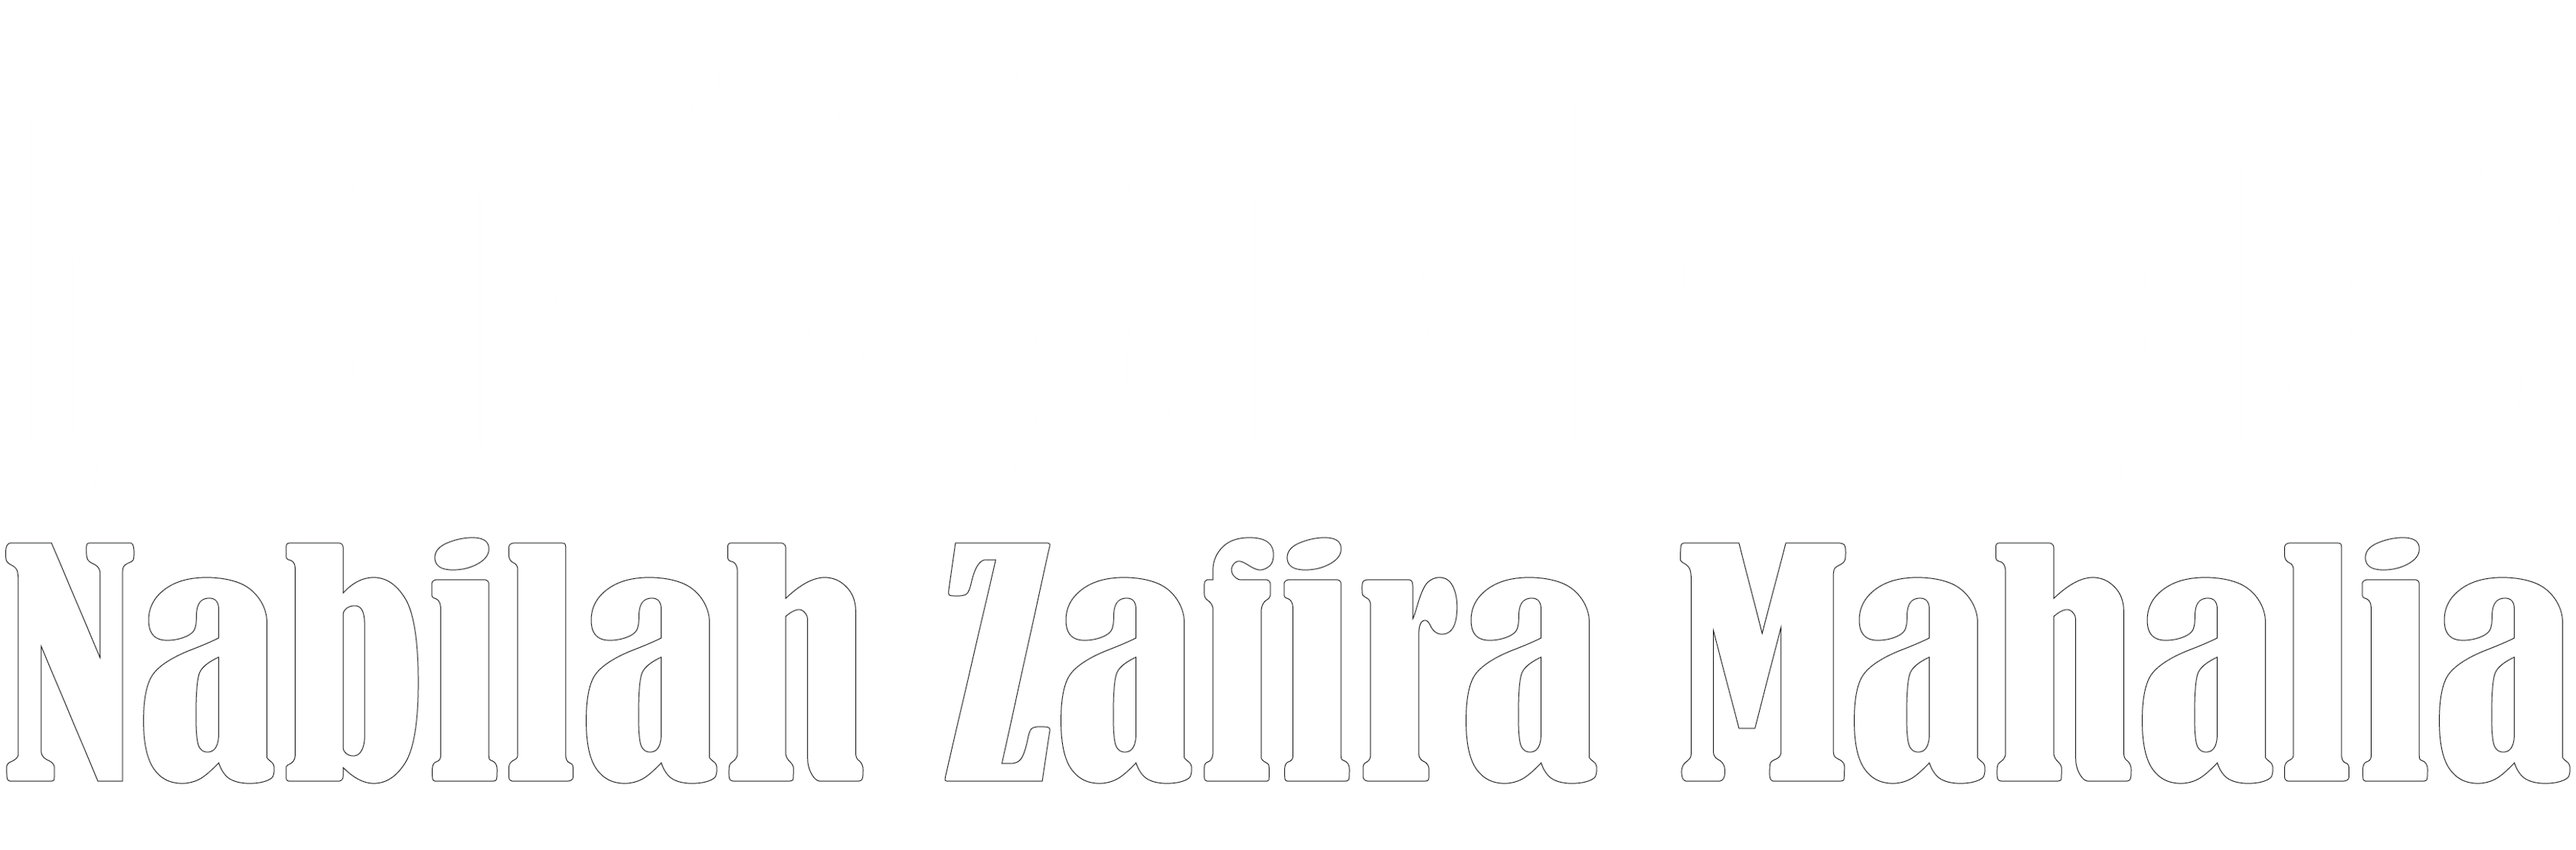
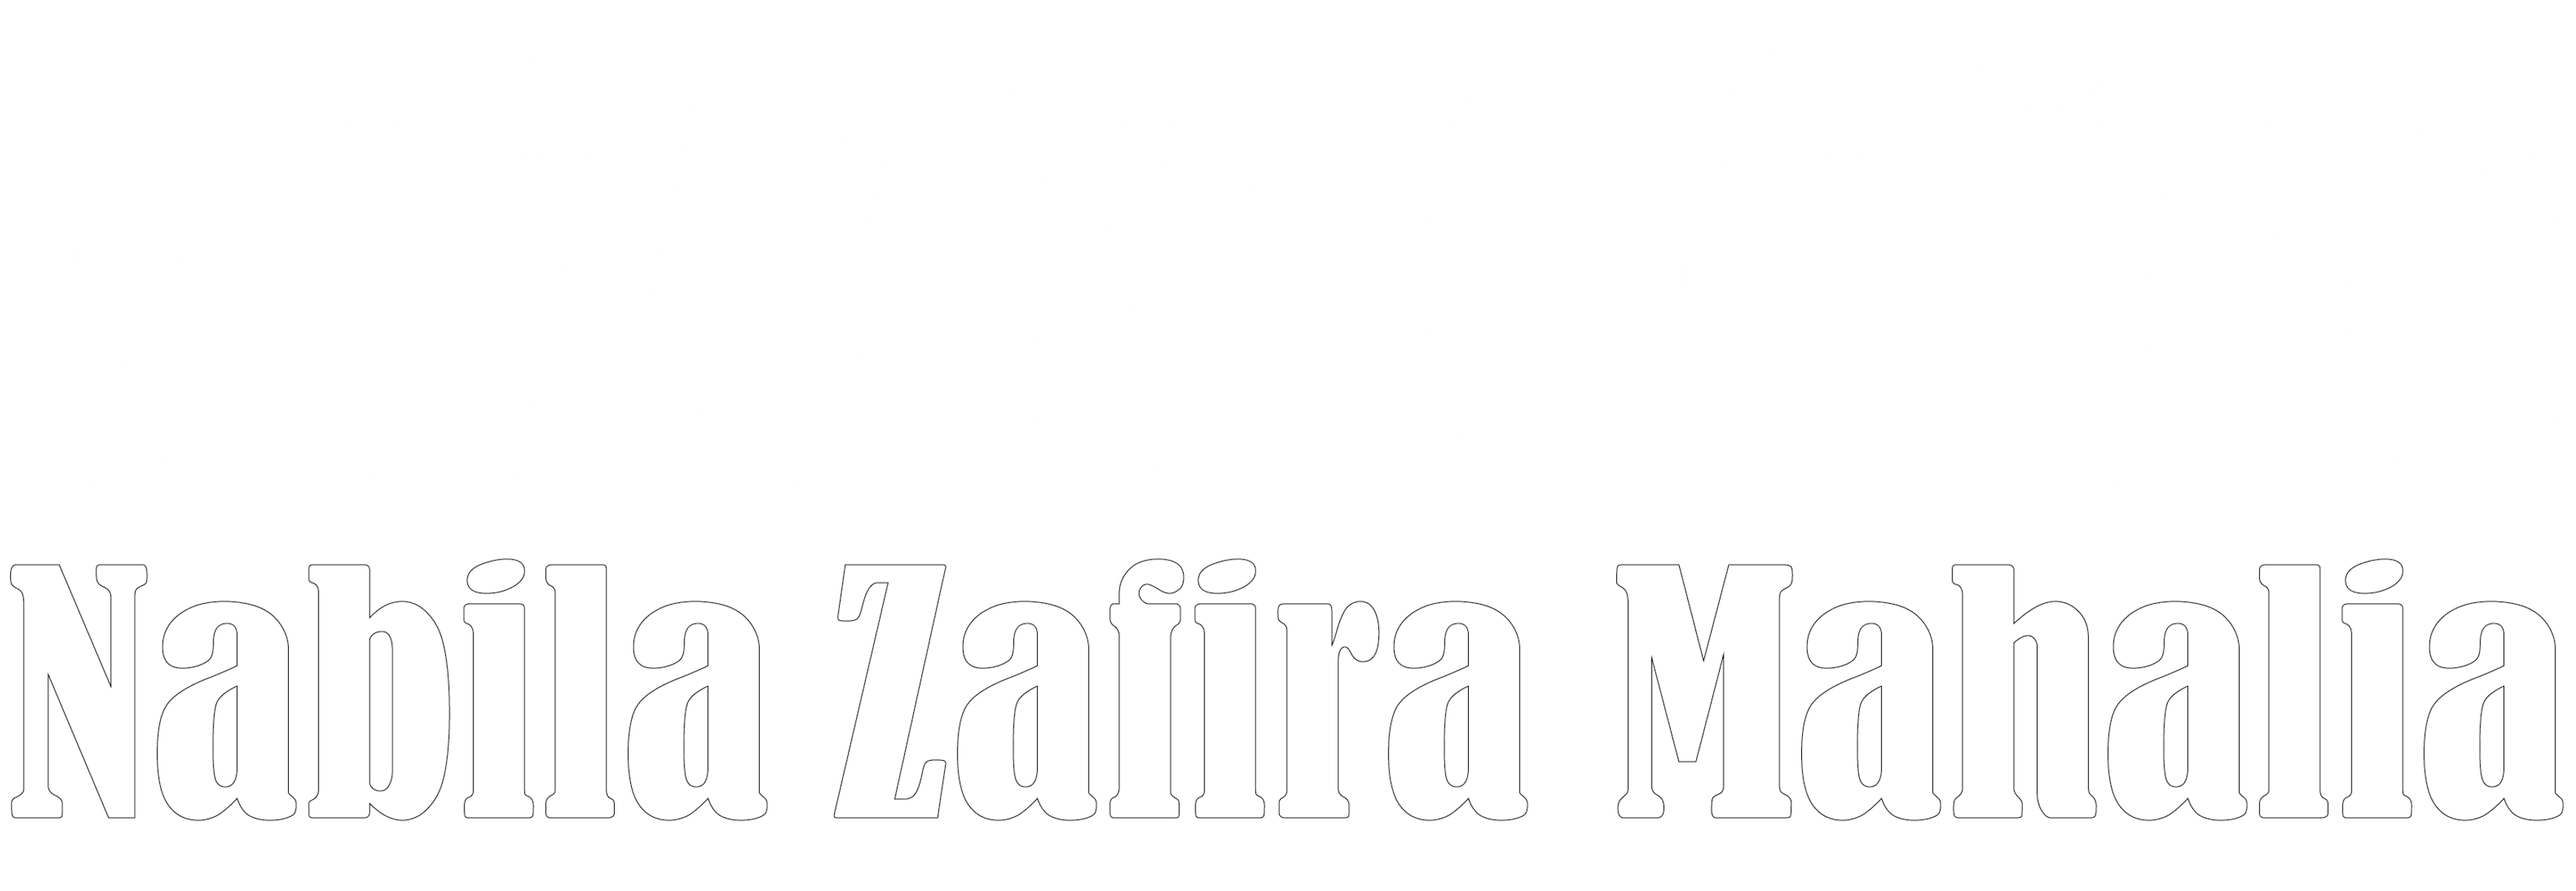
nightfix

diff --git a/public/css/styles.css b/public/css/styles.css
@@ -155,7 +155,7 @@ body:not(h1, h2, .homeTextLarge, .homeTextSmall) {
             }
 
             .homeTextLarge {
-                font-family: 'Bebas Neue', cursive;
+                font-family: 'Damion', cursive;
                 font-size: 5rem;
                 margin: 30% 3rem 2rem 3rem;
                 padding-left: 1rem;
@@ -163,7 +163,7 @@ body:not(h1, h2, .homeTextLarge, .homeTextSmall) {
             }
 
             .homeTextSmall {
-                font-family: 'Bebas Neue', cursive;
+                font-family: 'Damion', cursive;
                 font-size: 3rem;
                 margin: 2rem 1rem 2rem 1rem;
                 padding-left: 1rem;
@@ -291,7 +291,7 @@ body:not(h1, h2, .homeTextLarge, .homeTextSmall) {
         }
 
         .text-bg-nazmaOrange {
-            color: #000 !important;
+            color: #FFF !important;
             background-color: RGBA(245, 130, 31, var(--bs-bg-opacity, 1)) !important;
           }
             
